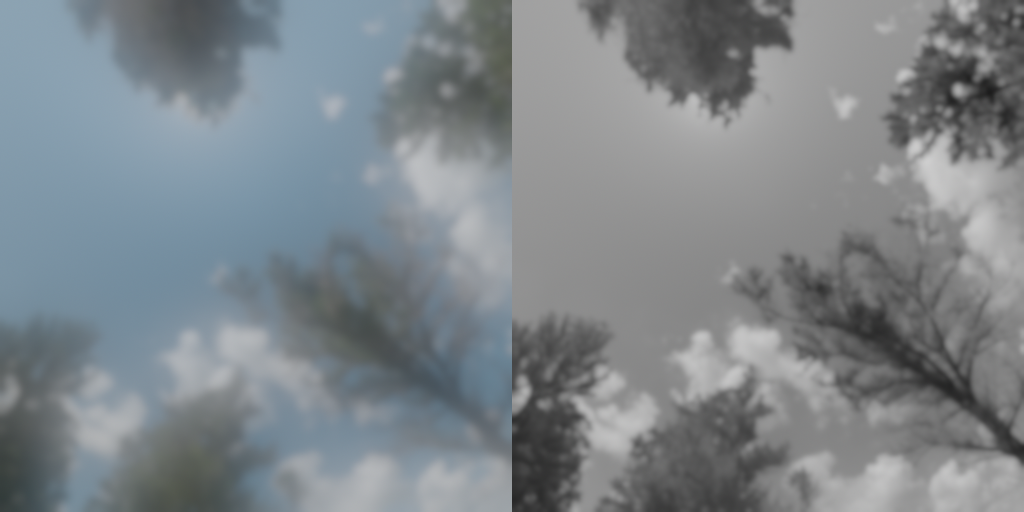
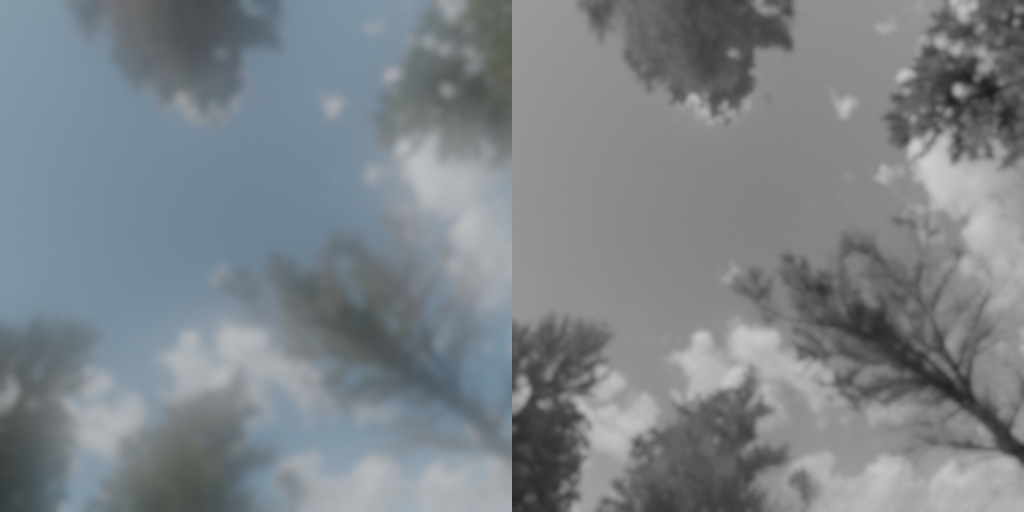
Lab: climb overexpose round 1
Claude-Session: https://claude.ai/code/session_01RqENhngNCzDFmJWDZueXGV

Changed region(s): [[0.5938, 0.0938, 0.7812, 0.3438], [0.125, 0.0938, 0.2812, 0.3438]]

diff --git a/src/app/lab/overexpose/overexposeEngine.js b/src/app/lab/overexpose/overexposeEngine.js
@@ -38,8 +38,22 @@ export const FILM = {
   printGrey: 0.25,
   saturation: 1.15,
   blueDepth: 1.5,
-  blueHue: [0.86, 0.93, 1.0],
+  blueHue: [0.84, 0.92, 1.0],
   hiDesat: 0.45,
+  // The sky through the print's shoulder. On the paper the blue channel reaches
+  // the base white first, then green climbs after it, and a print-chroma blue
+  // measure collapses with it: overexposed sky slid from cobalt to a milky grey
+  // cyan (hue ~185, saturation ~0.05 at +3). The scan reads "sky" from the
+  // scene's own blue-over-red ratio instead, which no exposure changes, and for
+  // it keeps the blue compensation (stronger as it lifts), keeps most of the
+  // saturation the highlight bleach would take, and holds the blue a touch
+  // under the paper white. So overexposure lifts the sky's luminance at hue
+  // ~205: powder blue at +3, with the clouds still the brightest thing on it.
+  skyQ: [0.6, 1.5], // log2 blue/red of the scene where sky starts and is full
+  skyHiKeep: 0.5, // share of the highlight desaturation the sky is spared
+  skyHiHue: 1.5, // extra blue compensation on lifted sky
+  skyCap: 0.05, // how far under the paper white the sky's blue stays
+
   hiWarm: 0.025,
   bloom: 0.08,
   halation: 0.15,
@@ -72,6 +86,7 @@ uniform vec3 uGamma; uniform vec3 uShoulder; uniform float uToe; uniform float u
 uniform vec3 uGref;         // negative density of the printer-light grey
 uniform vec3 uPk; uniform vec3 uPx0; uniform vec3 uDmin; uniform vec3 uDmax;
 uniform float uSat; uniform float uBlueSat; uniform vec3 uBlueHue; uniform float uHiDesat; uniform float uHiWarm;
+uniform vec2 uSkyQ; uniform float uSkyHiKeep; uniform float uSkyHiHue; uniform float uSkyCap;
 uniform float uBloom; uniform float uHal; uniform vec3 uHalColor;
 uniform float uGrain; uniform float uSeed; uniform float uGrainPx;
 out vec4 o;
@@ -118,14 +133,21 @@ void main(){
   // Scan: summer sky leans cobalt, colour sits in the midtones and bleaches
   // (a little warm) in the highlights. Saturation is a power on the channel
   // ratios, so no channel is ever pushed through zero.
-  float blue = clamp((c.b - c.r) / (c.b + 1e-4), 0.0, 1.0);
-  c *= 1.0 + (uBlueHue - 1.0) * blue * blue;
+  // (and bright: a blue-black needle shadow is not sky)
+  float sky = smoothstep(uSkyQ.x, uSkyQ.y, log2(max(L.b, 1e-6) / max(L.r, 1e-6))) * smoothstep(0.02, 0.07, dot(L, LUMA));
+  float blue = max(clamp((c.b - c.r) / (c.b + 1e-4), 0.0, 1.0), sky);
+  float hi0 = clamp((dot(c, LUMA) - 0.45) / 0.4, 0.0, 1.0);
+  c *= 1.0 + (uBlueHue - 1.0) * blue * blue * (1.0 + uSkyHiHue * hi0 * sky);
   float y = dot(c, LUMA);
   float hi = clamp((y - 0.45) / 0.4, 0.0, 1.0);
-  float s = uSat * (1.0 - uHiDesat * hi) * (1.0 + (uBlueSat - 1.0) * blue);
+  float s = uSat * (1.0 - uHiDesat * hi * (1.0 - uSkyHiKeep * sky)) * (1.0 + (uBlueSat - 1.0) * blue);
   vec3 r = max(c, 1e-5) / max(y, 1e-5);
   c = y * pow(r, vec3(s));
   c *= y / max(dot(c, LUMA), 1e-6);
+  // Never past the paper's own white: a channel that would print brighter than
+  // the base gives up luminance with the others, so the hue holds.
+  vec3 white = pow(vec3(10.0), -uDmin) * (1.0 - uSkyCap * sky);
+  c /= max(1.0, max(c.r / white.r, max(c.g / white.g, c.b / white.b)));
   c *= 1.0 + uHiWarm * hi * vec3(1.0, 0.3, -0.6);
   vec3 outc = srgb(c);
 
@@ -405,6 +427,10 @@ export async function createOverexpose(host, { embedded = false } = {}) {
     gl.uniform3fv(u.uBlueHue, F.blueHue);
     gl.uniform1f(u.uHiDesat, F.hiDesat);
     gl.uniform1f(u.uHiWarm, F.hiWarm);
+    gl.uniform2fv(u.uSkyQ, F.skyQ);
+    gl.uniform1f(u.uSkyHiKeep, F.skyHiKeep);
+    gl.uniform1f(u.uSkyHiHue, F.skyHiHue);
+    gl.uniform1f(u.uSkyCap, F.skyCap);
     gl.uniform1f(u.uBloom, F.bloom);
     gl.uniform1f(u.uHal, F.halation);
     gl.uniform3fv(u.uHalColor, F.halationColor);

diff --git a/tools/depth/bakes/overexpose/deepen.py b/tools/depth/bakes/overexpose/deepen.py
@@ -1,0 +1,146 @@
+# Deepen the open sky towards the zenith.
+#
+# After resun.py the frame's open sky still followed the photograph's own field:
+# palest under the crown that hides the sun (the moved radial term spreads a
+# broad milky wash 10-30 deg around it) and no deeper overhead than at the
+# edges, so the open middle of the frame printed as a washed-out hole rather
+# than the deep cobalt a clear summer zenith gives on colour negative.
+#
+# Here the open sky's smooth field is refitted in the camera frame (log radiance
+# per channel, elevation cubic + radial terms around the new sun, on eroded open
+# blue sky) and replaced by a target field:
+#   - a function of zenith angle only, darkest and most saturated overhead
+#     (ZEN, which prints #2f6fc0, hue ~213, at 0 EV through the piece's
+#     negative + print) and opening out towards the low sky at the frame's
+#     edges (EDGE, about the old mid-edge sky);
+#   - times a tight circumsolar glow around the new sun (GLOW_A, GLOW_DEG), so
+#     the crown's open-sky edge still reads as lit from behind, without the
+#     broad wash.
+# Only the sky's share of each pixel takes the change. The share is read from
+# chroma: (B - R) of the pixel over (B - R) of the local sky, so needles, the
+# warm rim and neutral cloud keep their light, thin cloud keeps its white and
+# takes only the sky behind it. The photograph's grain and local sky variation
+# ride along as the ratio of the pixel to the old field.
+#
+# Pipeline:   python3 deepen.py <OE_WORK>/crop1536r.npy            -> <OE_WORK>/crop1536d.npy
+#             (then bake_wormseye.py on crop1536d.npy)
+# Re-grade the shipped bake in place (log-decoded, optics updated by their own
+# linear delta so the aureole's headroom beyond the encoding is kept):
+#             python3 deepen.py --shipped <scene.webp> <optics.png>
+#             (pass copies of the un-deepened files, never the outputs)
+import sys, os; sys.path.insert(0, os.path.dirname(os.path.abspath(__file__)))
+import numpy as np
+from PIL import Image
+from scipy import ndimage as ndi
+import wormseye_lib as wlib
+import bake_wormseye as bw
+
+YAW, PITCH, FOV, ROLL, SIZE = 150.0, 76.0, 116.0, -10.0, 1536   # the worm's-eye crop, unchanged
+U, V = 0.3906, 0.1706                                             # the new sun (resun.py)
+LUMA = np.array([0.2126, 0.7152, 0.0722])
+ZEN = np.array([0.072, 0.142, 0.235])      # open sky overhead; prints #2f6fc0 at 0 EV
+EDGE = np.array([0.2, 0.37, 0.54])        # open sky ~5 deg above the horizon: paler, as low sky is
+ZPOW = 1.3                                 # how fast it opens out away from the zenith
+GLOW_A, GLOW_DEG = 1.6, 4.0                # circumsolar glow left around the hidden sun
+LN = 0.035                                 # the needles' own luminance (resun.py)
+
+def target_field(elev, g_new):
+    z = np.clip((90.0 - elev) / 85.0, 0, 1)[..., None] ** ZPOW
+    lt = np.log(ZEN) + (np.log(EDGE) - np.log(ZEN)) * z
+    return lt + np.log1p(GLOW_A * np.exp(-g_new / GLOW_DEG))[..., None]
+
+def geometry():
+    R = wlib.rot(YAW, PITCH, ROLL); a = np.radians(FOV) / 2
+    X, Y = 2 * U - 1, 2 * V - 1
+    r = np.hypot(X, Y); th = 2 * np.arctan(r * np.tan(a / 2)); ph = np.arctan2(-Y, X)
+    s_new = R @ np.array([np.sin(th) * np.cos(ph), np.sin(th) * np.sin(ph), np.cos(th)])
+    dw = wlib.rays(SIZE, FOV, 'stereo') @ R.T
+    elev = np.degrees(np.arcsin(np.clip(dw[..., 1], -1, 1)))
+    g_new = np.degrees(np.arccos(np.clip(dw @ s_new, -1, 1)))
+    return elev, g_new
+
+def mblur(a, m, s):
+    return ndi.gaussian_filter(a * m, s) / np.maximum(ndi.gaussian_filter(m, s), 1e-6)
+
+def deepen(pix):
+    elev, g_new = geometry()
+    L = pix @ LUMA
+    blue = (pix[..., 2] > pix[..., 0] * 1.3) & (L > 0.05)
+    cloud = (L > 0.3) & (pix[..., 2] < pix[..., 0] * 1.3)
+    fitm = ndi.binary_erosion(blue & ~cloud, iterations=8)
+    # the old field: elevation cubic + radial terms around the new sun
+    B = lambda e, g: np.stack([np.ones_like(e), e / 90, (e / 90) ** 2, (e / 90) ** 3,
+                               np.exp(-g / 6), np.exp(-g / 15), np.exp(-g / 35)], -1)
+    sub = (slice(None, None, 3), slice(None, None, 3)); m = fitm[sub]
+    A = B(elev[sub][m], g_new[sub][m])
+    co = [np.linalg.lstsq(A, np.log(np.maximum(pix[..., c][sub][m], 1e-6)), rcond=None)[0] for c in range(3)]
+    Bf = B(elev, g_new)
+    S_old = np.exp(np.stack([Bf @ co[c] for c in range(3)], -1)); del Bf
+    S_new = np.exp(target_field(elev, g_new))
+    # local sky relative to the old field (grain, haze near cloud), from open sky only
+    clean = ndi.binary_erosion(blue & ~cloud, iterations=2).astype(np.float64)
+    rel = pix / S_old
+    rl = np.stack([mblur(rel[..., c], clean, 3.0) for c in range(3)], -1)
+    far = ndi.gaussian_filter(clean, 3.0)[..., None] > 0.02
+    rl = np.where(far, rl, np.stack([mblur(rel[..., c], clean, 24.0) for c in range(3)], -1))
+    rl = np.where(clean[..., None] > 0, rel, rl)
+    sky = rl * S_old                                  # the sky behind each pixel, as it was
+    t = np.clip((pix[..., 2] - pix[..., 0]) / np.maximum(sky[..., 2] - sky[..., 0], 1e-4), 0, 1)
+    # a needle edge carrying the warm rim reads as little sky by chroma alone but is
+    # as bright as the sky: its share is also read from luminance over the needles' own
+    # (only where it is nearly as bright as the sky, so dim needle interiors stay as they are)
+    t_l = np.clip((L - LN) / np.maximum(sky @ LUMA - LN, 1e-3), 0, 1)
+    t_l = np.clip((t_l - 0.55) / 0.35, 0, 1) ** 2 * (3 - 2 * np.clip((t_l - 0.55) / 0.35, 0, 1))
+    t_l = np.where(cloud | ~far[..., 0], 0, t_l)        # and only on the open sky's own edge
+    t = np.maximum(np.maximum(t, t_l), ndi.gaussian_filter(clean, 0.7))[..., None]
+    delta = t * rl * (S_new - S_old)
+    # the warm rim resun.py drew is scaled to the sky beyond it; away from the sun's
+    # forward lobe it follows that sky down, or it outlines the far side of the crown
+    rest = np.maximum(pix + delta - t * rl * S_new, 0)
+    k_l = (S_new @ LUMA) / (S_old @ LUMA)
+    fade = np.clip((g_new - 8) / 8, 0, 1); fade = fade * fade * (3 - 2 * fade)
+    bright = np.clip((rest @ LUMA - 2 * LN) / (2 * LN), 0, 1)
+    delta += rest * (np.minimum(k_l, 1) - 1)[..., None] * (fade * bright)[..., None]
+    # gaps inside the crowns near the sun show circumsolar sky, lit by the sun just
+    # behind them (resun.py capped them, lit, never blown): they keep that light, or
+    # they print as navy holes in a pale crown once the exposure lifts
+    lab, n = ndi.label(blue)
+    sizes = ndi.sum(np.ones_like(L), lab, np.arange(1, n + 1))
+    hole = (lab > 0) & ~np.isin(lab, 1 + np.flatnonzero(sizes > 40000))
+    keep = ndi.gaussian_filter(ndi.binary_dilation(hole, iterations=2).astype(np.float64), 1.0)
+    near = np.clip((26 - g_new) / 8, 0, 1)
+    delta *= (1 - np.clip(keep, 0, 1) * near)[..., None]
+    # and only where open sky is close: deep inside a crown the share read from chroma
+    # is a guess, and the old glow it would take back is many times the needles' light
+    opn = np.clip((ndi.gaussian_filter(clean, 3.0) - 0.02) / 0.08, 0, 1)
+    delta *= opn[..., None]
+    # never more than 80% of a channel taken: the change is scaled down as a whole, keeping its hue
+    lim = np.min(np.where(delta < 0, 0.8 * pix / np.maximum(-delta, 1e-9), np.inf), -1, keepdims=True)
+    out = pix + delta * np.minimum(lim, 1)
+    for name, (u, v) in dict(zenith=(0.48, 0.39), centre=(0.5, 0.5), undercrown=(0.42, 0.27), midleft=(0.04, 0.5)).items():
+        y, x = int(v * SIZE), int(u * SIZE); sl = (slice(y - 6, y + 6), slice(x - 6, x + 6))
+        print('%-10s elev %4.1f sun %4.1f deg  sky %s -> %s' % (name, elev[y, x], g_new[y, x],
+              np.round(pix[sl].reshape(-1, 3).mean(0), 3), np.round(out[sl].reshape(-1, 3).mean(0), 3)))
+    print('sky share > 0.5: %.3f of the frame' % float((t[..., 0] > 0.5).mean()))
+    return out
+
+if __name__ == '__main__':
+    if sys.argv[1] == '--shipped':
+        s8 = np.asarray(Image.open(sys.argv[2]).convert('RGB'))
+        g8 = np.asarray(Image.open(sys.argv[3]).convert('RGB'))
+        pix = bw.dec_log(s8)
+        out = deepen(pix)
+        rng = np.random.default_rng(7)
+        # untouched pixels keep their codes exactly; the optics take the change's own blur
+        changed = np.abs(np.log2(out / pix)).max(-1) > 1e-3
+        s8n = np.where(changed[..., None], bw.enc_log(out, rng), s8)
+        d_opt = bw.optics(out - pix)
+        glow = np.maximum(bw.dec_log(g8) + d_opt, 2.0 ** bw.LO)
+        g8n = np.where((np.abs(d_opt) > 1e-5).any(-1, keepdims=True), bw.enc_log(glow, rng), g8)
+        bw.save_scene(s8n.astype(np.uint8)); bw.save_optics(g8n.astype(np.uint8))
+        print('changed px %.3f; wrote' % float(changed.mean()), bw.OUT)
+    else:
+        src = sys.argv[1]
+        out = deepen(np.load(src).astype(np.float64))
+        dst = os.path.join(os.path.dirname(src), 'crop1536d.npy')
+        np.save(dst, out.astype(np.float32)); print('wrote', dst)

diff --git a/tools/depth/bakes/overexpose/bake_wormseye.py b/tools/depth/bakes/overexpose/bake_wormseye.py
@@ -1,10 +1,11 @@
-# Worm's-eye bake (current): python3 desun.py 6 26 && python3 resun.py 0.3906 0.1706 && python3 bake_wormseye.py <OE_WORK>/crop1536r.npy   (OE_WORK holds the 8k caches)
-# bake.py is the earlier rectilinear bake, kept for reference.
+# Worm's-eye bake (current):
+#   python3 desun.py 6 26 && python3 resun.py 0.3906 0.1706 \
+#     && python3 deepen.py <OE_WORK>/crop1536r.npy && python3 bake_wormseye.py <OE_WORK>/crop1536d.npy
+# (OE_WORK holds the 8k caches). bake.py is the earlier rectilinear bake, kept for reference.
 import numpy as np, io, os, sys
-from PIL import Image, ImageFilter
+from PIL import Image
 LO, HI = -8.5, 2.5     # log2 radiance range of the encoding (headroom for the aureole behind the crown)
 OUT = '/home/user/portfolio/public/lab/overexpose'
-im = np.load(sys.argv[1] if len(sys.argv) > 1 else '/tmp/claude-0/dl-overexpose/crop1536w.npy').astype(np.float64)
 LUMA = np.array([0.2126, 0.7152, 0.0722])
 
 def enc_log(x, rng):
@@ -13,15 +14,11 @@ def enc_log(x, rng):
     v = v + (rng.random(v.shape) + rng.random(v.shape) - 1.0)  # TPDF dither, 1 code
     return np.clip(np.round(v), 0, 255).astype(np.uint8)
 
-rng = np.random.default_rng(7)
-scene8 = enc_log(im, rng)
-img = Image.fromarray(scene8)
-for q in (90, 94):
-    b = io.BytesIO(); img.save(b, 'WEBP', quality=q, method=6); print('webp', q, len(b.getvalue()) // 1024, 'KB')
-b = io.BytesIO(); img.save(b, 'JPEG', quality=93, subsampling=0); print('jpg444 q93', len(b.getvalue()) // 1024, 'KB')
-img.save(os.path.join(OUT, 'scene.webp'), 'WEBP', quality=94, method=6)
+def dec_log(a):
+    return 2.0 ** (np.asarray(a, np.float64) / 255.0 * (HI - LO) + LO)
 
-# Optics, baked in linear light (they are linear in exposure, so one bake serves every stop).
+# Optics, baked in linear light (they are linear in exposure, so one bake serves every stop,
+# and linear in the radiance, so a change to the radiance can be baked on its own and added).
 def gblur(a, sigma):
     # separable gaussian on float arrays via FFT-free direct conv
     r = int(np.ceil(sigma * 3))
@@ -30,16 +27,32 @@ def gblur(a, sigma):
     t = sum(k[i] * pad[i:i + a.shape[0]] for i in range(2 * r + 1))
     return sum(k[i] * t[:, i:i + a.shape[1]] for i in range(2 * r + 1))
 
-S = 512
-small = im.reshape(S, 3, S, 3, 3).mean((1, 3))
-W = 1536.0
-narrow = gblur(small, 0.008 * W / 3)
-wide = gblur(gblur(small, 0.03 * W / 3), 0.05 * W / 3)   # ~6% of the frame
-diff = 0.55 * narrow + 0.45 * wide
-Y = small @ LUMA
-halo = gblur(Y, 0.0045 * W / 3)     # base reflection spread, ~0.45% of the frame
-glow = np.concatenate([diff, np.repeat(halo[..., None], 3, -1)], 1)   # left: diffusion rgb, right: halation source
-g8 = enc_log(glow, rng)
-Image.fromarray(g8, 'RGB').save(os.path.join(OUT, 'optics.png'), optimize=True)
-for f in os.listdir(OUT): print(f, os.path.getsize(os.path.join(OUT, f)) // 1024, 'KB')
+def optics(im):
+    """left: diffusion rgb, right: halation source (luma), at 512 px."""
+    S = 512
+    small = im.reshape(S, im.shape[0] // S, S, im.shape[1] // S, 3).mean((1, 3))
+    W = 1536.0
+    narrow = gblur(small, 0.008 * W / 3)
+    wide = gblur(gblur(small, 0.03 * W / 3), 0.05 * W / 3)   # ~6% of the frame
+    diff = 0.55 * narrow + 0.45 * wide
+    halo = gblur(small @ LUMA, 0.0045 * W / 3)     # base reflection spread, ~0.45% of the frame
+    return np.concatenate([diff, np.repeat(halo[..., None], 3, -1)], 1)
 
+def save_scene(scene8):
+    img = Image.fromarray(scene8)
+    img.save(os.path.join(OUT, 'scene.webp'), 'WEBP', quality=94, method=6)
+
+def save_optics(g8):
+    Image.fromarray(g8, 'RGB').save(os.path.join(OUT, 'optics.png'), optimize=True)
+
+if __name__ == '__main__':
+    im = np.load(sys.argv[1] if len(sys.argv) > 1 else '/tmp/claude-0/dl-overexpose/crop1536d.npy').astype(np.float64)
+    rng = np.random.default_rng(7)
+    scene8 = enc_log(im, rng)
+    img = Image.fromarray(scene8)
+    for q in (90, 94):
+        b = io.BytesIO(); img.save(b, 'WEBP', quality=q, method=6); print('webp', q, len(b.getvalue()) // 1024, 'KB')
+    b = io.BytesIO(); img.save(b, 'JPEG', quality=93, subsampling=0); print('jpg444 q93', len(b.getvalue()) // 1024, 'KB')
+    save_scene(scene8)
+    save_optics(enc_log(optics(im), rng))
+    for f in os.listdir(OUT): print(f, os.path.getsize(os.path.join(OUT, f)) // 1024, 'KB')

diff --git a/tools/depth/bakes/overexpose/resun.py b/tools/depth/bakes/overexpose/resun.py
@@ -20,7 +20,9 @@
 #     edge in the sun's forward lobe, scaled to the sky beyond so it out-shines it.
 #
 # Run after desun.py (which removes the old sun's disc, star and aureole):
-#   python3 desun.py 6 26 && python3 resun.py 0.3906 0.1706 && python3 bake_wormseye.py <OE_WORK>/crop1536r.npy
+#   python3 desun.py 6 26 && python3 resun.py 0.3906 0.1706 && python3 deepen.py <OE_WORK>/crop1536r.npy \
+#     && python3 bake_wormseye.py <OE_WORK>/crop1536d.npy
+# (deepen.py then replaces the open sky's field with one that deepens towards the zenith.)
 # OE_WORK holds the 8k caches and hdr/tree_lined_driveway_8k.hdr (Poly Haven).
 import sys, os; sys.path.insert(0, os.path.dirname(os.path.abspath(__file__)))
 import wormseye_lib as wlib, numpy as np
